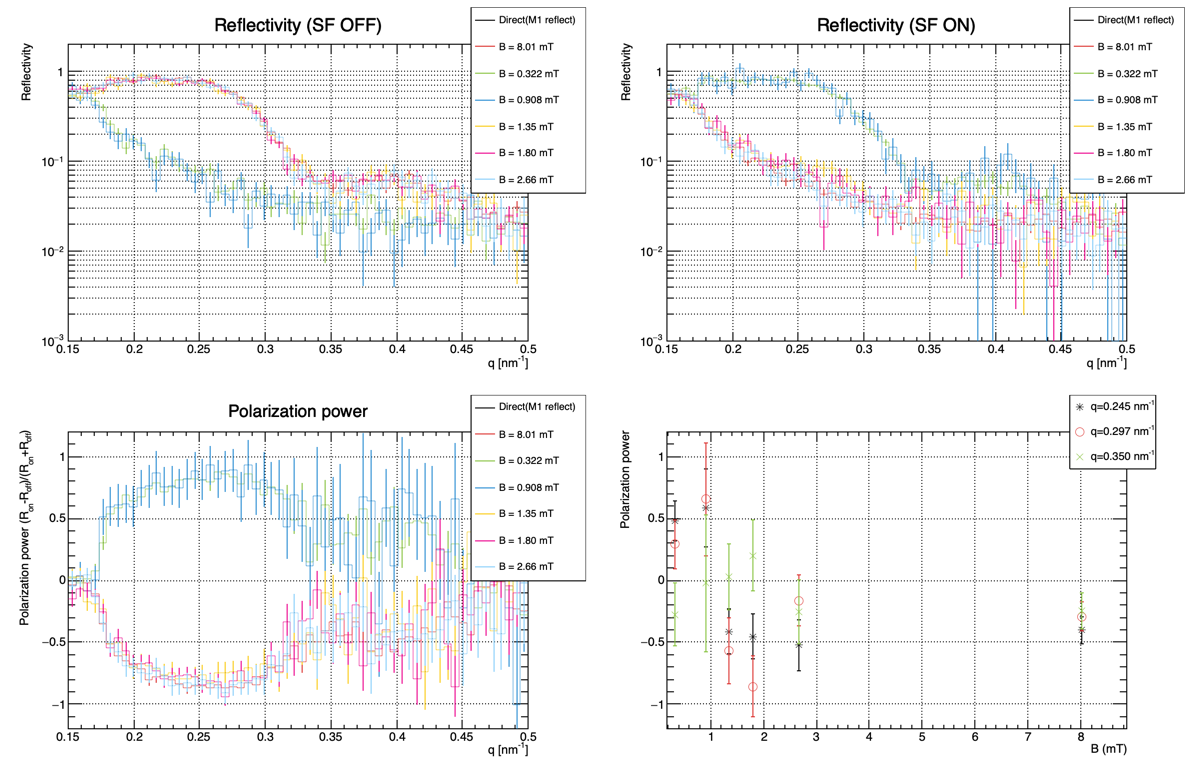
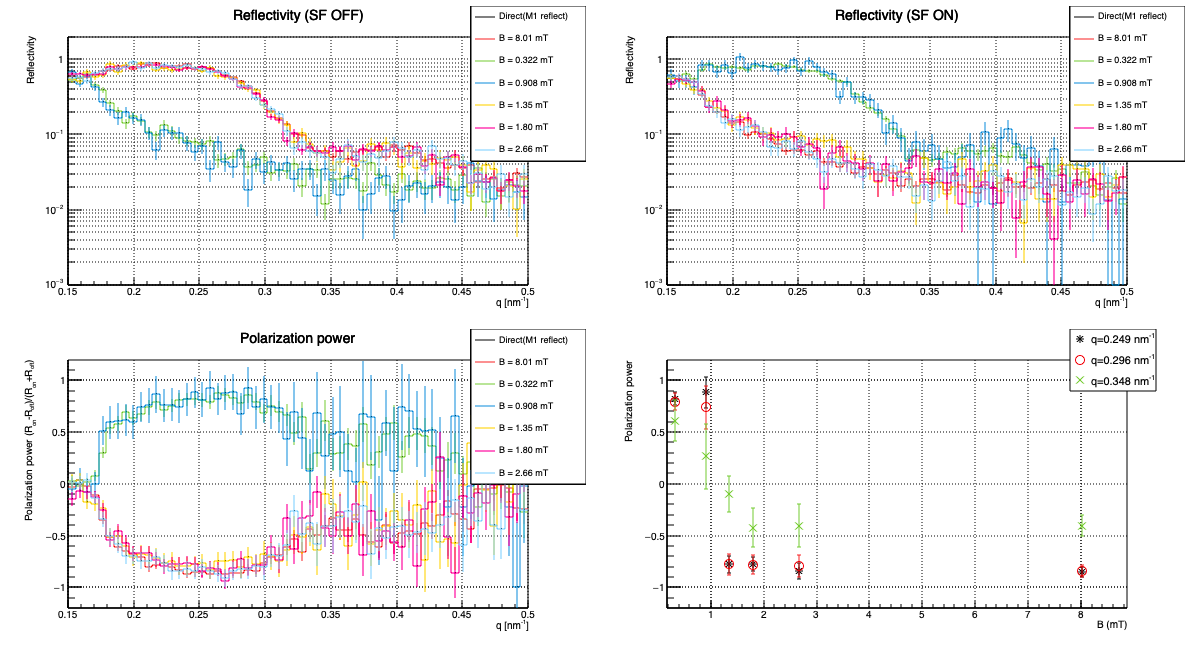
Add_q_min_to_temp

diff --git a/codes/simple/Pol_Power_30nm_temp.C b/codes/simple/Pol_Power_30nm_temp.C
@@ -402,7 +402,7 @@ Int_t Pol_Power_30nm_temp(){
   TLegend *leg4 = new TLegend(0.8, 0.8, 0.95, 1, "");
   // leg4->SetFillStyle(0);
   for (Int_t i=0; i<num_pol; i++){
-    ibin_pol[i]= Int_t(q_cuts[i]*nbin_q/(q_max-q_min));
+    ibin_pol[i]= Int_t((q_cuts[i]-q_min)*nbin_q/(q_max-q_min));
     for (Int_t j=0; j<num-1; j++){
       pol_at_qcut[j] = hpolratio[j+1]->GetBinContent(ibin_pol[i]);
       error_pol_at_qcut[j] = hpolratio[j+1]->GetBinError(ibin_pol[i]);
@@ -421,7 +421,7 @@ Int_t Pol_Power_30nm_temp(){
     gr[i]->GetXaxis()->SetTitle("B (mT)");
     gr[i]->GetYaxis()->SetTitle("Polarization power");
     gr[i]->SetTitle("");
-    leg4->AddEntry(gr[i],Form("q=%.3f nm^{-1}",(q_max-q_min)/nbin_q*ibin_pol[i]),"p");
+    leg4->AddEntry(gr[i],Form("q=%.3f nm^{-1}",q_min + (q_max-q_min)*ibin_pol[i]/nbin_q),"p");
 
   }
   leg4->Draw();

diff --git a/codes/simple/q025_30nm_1.C b/codes/simple/q025_30nm_1.C
@@ -47,7 +47,7 @@ TTree* GetTree(TString filestr){
   return tup;
 }
 
-Int_t q025_30nm(){
+Int_t q025_30nm_1(){
 
   InitColor();
   TH1::SetDefaultSumw2();
